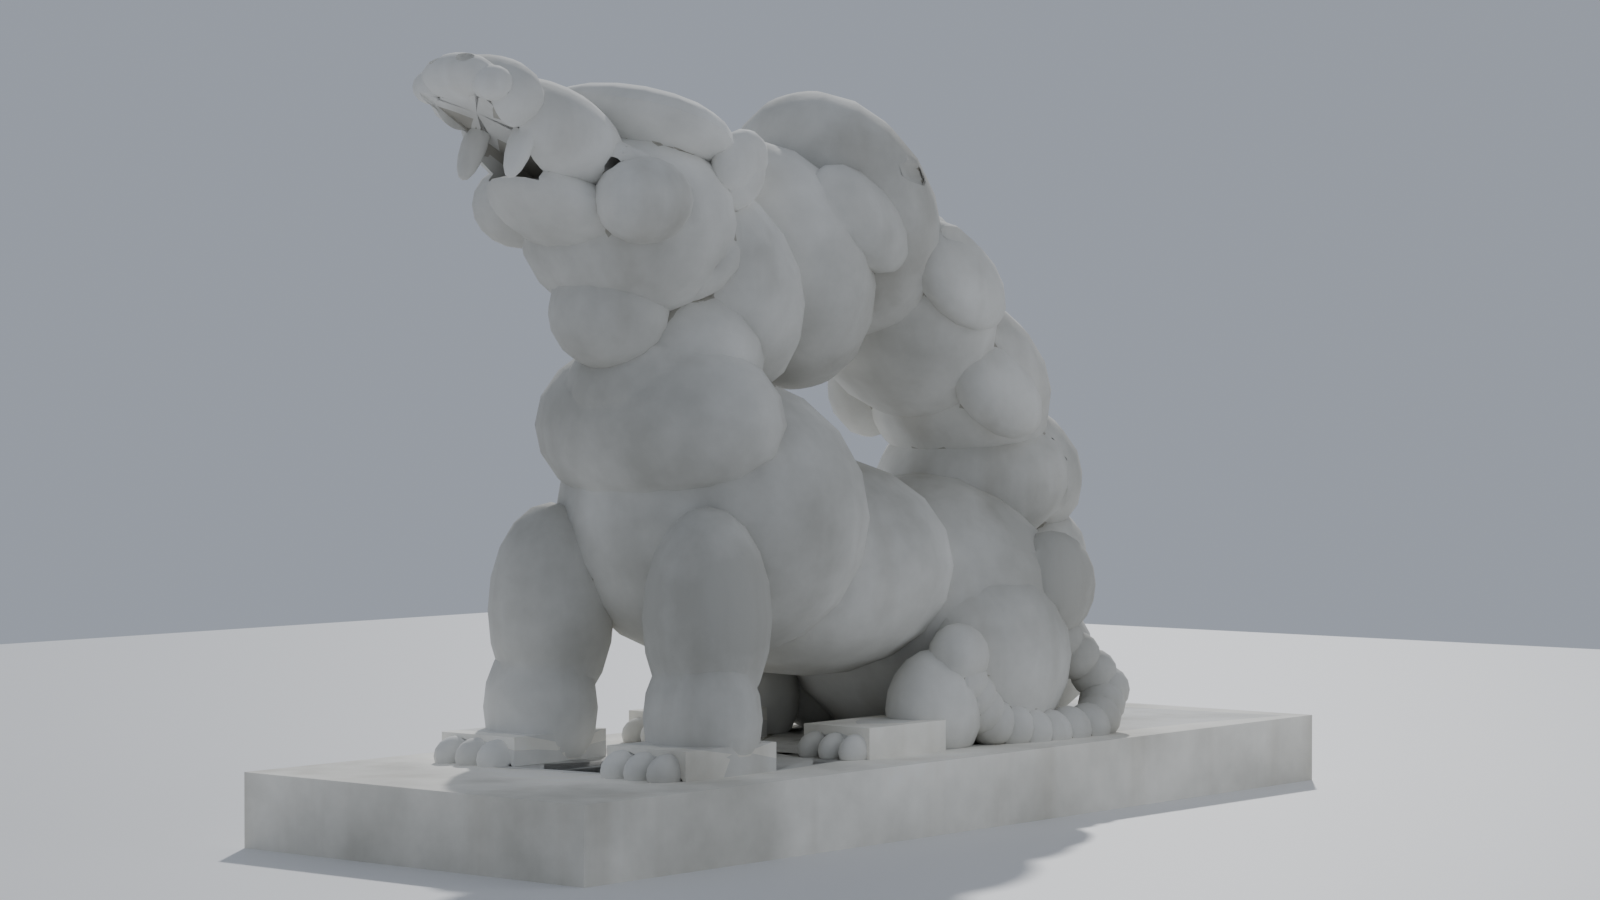
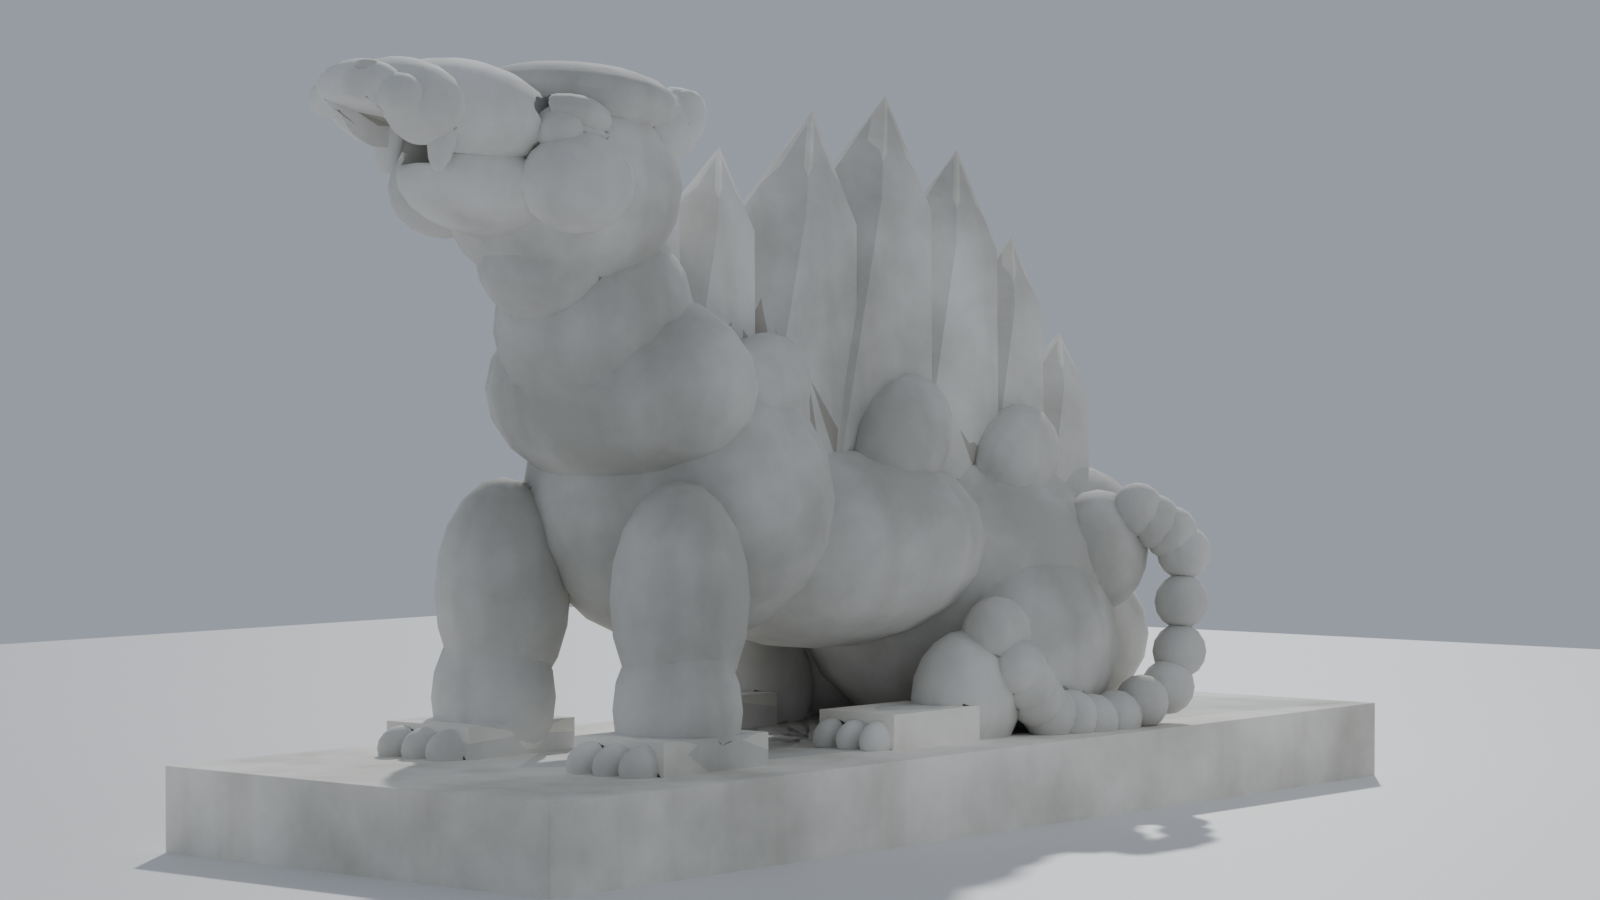
feat(e30): M14刀4 靠山兽第五刀——圆泡脊换7片火焰瓣(内收腰+后掠尖锋+瓦叠凹口, 六特征全中), 身姿前探(头前送+吻轴近水平+胯肩跨距+16%+降冠10%, 长高比1.56->1.81); 回归修复: 口裂楔刀切穿瘦吻/眼珠悬空孤岛; 两variant水密comps=1, 签名不变

diff --git a/e30_shikongqiao_video/3d/beasts2.py b/e30_shikongqiao_video/3d/beasts2.py
@@ -1,11 +1,12 @@
 # -*- coding: utf-8 -*-
-"""桥头靠山兽 v6(beasts2): 蹲坐昂首式镇桥兽, 真拍重雕批(2026-10-05)。
+"""桥头靠山兽 v7(beasts2): 前探蹲坐+火焰瓣脊镇桥兽, 真拍重雕批(2026-10-05)。
 
-历史依据(实拍 17_Arch_Bridge_Statue_over_Kunming_Lake_(3627588283) 剪影实证):
-臀落座/胸挺起/前腿直撑(犬坐式); 昂首吻轴 +25° 目视前方湖面; 背脊多层火焰云
-6 主叶沿脊互叠成连续扇贝波带, 背中部最高≈头顶齐平(≤1.2×, 废 v5 单片过顶
-巨卷); 云缘两侧披鬃顺披垂挂; 尾卷贴体侧后腿旁; 长方石座保留。
-废 v4 高颈直立坐犬态 / v5 伏卧前探+单片巨卷(与真拍剪影不符)。
+历史依据(实拍 17_Arch_Bridge_Statue_over_Kunming_Lake_(3627588283) 剪影实证,
+六审第五刀): 头前伸/吻近水平(额-鼻-嘴水平轮廓强), 颈斜向后上, 胸削瘦,
+前腿直撑, 躯干向后拉长(前探动势); 背脊=7 片火焰瓣——有尖/每层向后倒伏/
+前后层叠/瓣间凹口/大小递变/棱面硬轮廓(废 v6 圆椭球泡"葡萄脊");
+云缘两侧披鬃顺披; 尾卷贴体侧后腿旁; 长方石座保留。
+废 v4 高颈直立坐犬态 / v5 伏卧前探+单片巨卷 / v6 蹲坐昂首+圆泡云脊。
 
 交付形态: beast_bm(size, variant, seed) -> 单只水密 bmesh; place_beasts(spots) ->
 4 个 linked duplicate 共享 NVARIANTS 套 mesh。variant 0 张口 / 1 含珠微合。
@@ -106,20 +107,53 @@ def _frustum(c, s, tx=1.0, tz=1.0, rot_y=0.0, rot_x=0.0):
     return bm
 
 
-def _sculpt_parts(variant):
-    """蹲坐昂首式靠山兽部件(单位高 1.0, 朝 +X)。返回 (P, N, F)。
+def _blade(c, h, w, t, rot_y=-0.10):
+    """火焰瓣(独立 bmesh): 底环 + 内收腰环 + 后掠尖锋 + 前埋钝底。
 
-    真拍重雕(2026-10-05, 实拍 17_Arch_Bridge_Statue_over_Kunming_Lake_
-    (3627588283) 剪影实证, 替 v5 伏卧前探+单片巨卷): 臀落座/胸挺起/前腿直撑
-    (犬坐式, 前腿柱近竖直 ~6° 前倾); 昂首吻轴 +25° 目视前方湖面; 背脊多层
-    火焰云 6 主叶沿脊互叠(间距≈0.13/半长≈0.10 深搭接成连续扇贝波带), 背中部
-    最高≈头顶齐平(云顶/冠顶≈1.02, 绝不超 1.2, 废 v5 单片过顶巨卷 1.23);
-    云缘两侧披鬃三对顺披垂挂; 尾卷贴体侧后腿旁(尾根瓦锚接壳与臀球);
-    长方石座保留。
-    体块=椭球/盒(rot_y 定向: 正角 +X 端下俯/云叶后仰, 负角 +X 端上仰/昂首轴);
-    鬃/云/尾=半嵌瓦壳(C 先并成壳再总并, 与体块首(颈/项)尾(臀/落地云)两处锚接
-    保连通); 五官=负刀 crease+后并凸件。剪影验收: 坐角(前腿近竖/臀座接触)/
-    昂首角(吻轴 +25°)/云顶≤1.2×头高且呈 5-8 片扇贝叠/尾贴腿侧。
+    腰环(0.70h)收至 0.55w → 瓣宽厚保持到中上段、末 30% 收尖(宽瓣尖锋,
+    前后棱斜率递增=内凹火焰卷曲); 尖锋后掠 0.16h(合成顶点 ≈ 环心 +
+    (-0.259h, +0.979h)); 钝底下沉 0.18h 前埋 0.06h, 令环刃整条埋入
+    背脊体块(防切线退化/防瓣底悬丝)。
+    """
+    cx, cy, cz = c
+    R = Matrix.Rotation(rot_y, 3, 'Y')
+    bm = bmesh.new()
+    ring, waist = [], []
+    for j in range(6):
+        a = math.pi * j / 3.0
+        ca, sa = math.cos(a), math.sin(a)
+        p = R @ Vector((w * ca, t * sa, 0.0))
+        ring.append(bm.verts.new((p.x + cx, p.y + cy, p.z + cz)))
+        q = R @ Vector((0.55 * w * ca - 0.112 * h, 0.62 * t * sa, 0.70 * h))
+        waist.append(bm.verts.new((q.x + cx, q.y + cy, q.z + cz)))
+    tp = R @ Vector((-0.16 * h, 0.0, h))
+    bt = R @ Vector((0.06 * h, 0.0, -0.18 * h))
+    va = bm.verts.new((tp.x + cx, tp.y + cy, tp.z + cz))
+    vb = bm.verts.new((bt.x + cx, bt.y + cy, bt.z + cz))
+    for j in range(6):
+        k = (j + 1) % 6
+        bm.faces.new((vb, ring[k], ring[j]))
+        bm.faces.new((ring[j], ring[k], waist[k], waist[j]))
+        bm.faces.new((waist[j], waist[k], va))
+    return bm
+
+
+def _sculpt_parts(variant):
+    """前探蹲坐式靠山兽部件(单位高 1.0, 朝 +X)。返回 (P, N, F)。
+
+    六审第五刀(2026-10-05, GPT 六审: 背脊整条重画+身体前探动势, 实拍
+    17_Arch_Bridge_Statue_over_Kunming_Lake_(3627588283) 剪影实证):
+    1. 背脊=7 片火焰瓣 _blade(六棱环+后掠尖锋+钝底埋背): 有尖/每层向后
+       倒伏/前后层叠/瓣间深凹口/大小递变(中背最高≈头顶)/棱面硬轮廓;
+       尖序 x 0.235→-0.58, 尖高 0.79→0.82(峰)→0.56。废 v6 圆椭球泡脊。
+    2. 身体前探: 头前送+0.065(吻端至 0.70), 吻轴近水平(rot_y -0.21≈+12°,
+       额-鼻-嘴水平轮廓强), 颈斜向后上(rot_y -0.35), 胸削瘦(rx 0.19→0.16)
+       且前移, 躯干后拉(臀球 -0.30→-0.335, 胯-肩跨距 +16%), 前腿更直立
+       (~4°), 整体降低(冠顶 0.953→0.857)。
+    体块=椭球/盒(rot_y 定向: 负角 +X 端上仰/顶部向后倒伏, 正角相反);
+    火焰瓣/披鬃/云/尾=C 壳先并再总并(瓣环刃/鬃锚/尾根均深埋体块保连通);
+    五官=负刀 crease+后并凸件。剪影验收: 背脊锯齿锐形(尖+凹口, 无球轮廓)/
+    头前伸吻水平/胸瘦腿直/瓣尖≤头顶 1.2×/尾贴腿侧。
     """
     P, N, F = [], [], []
     C = []
@@ -134,6 +168,9 @@ def _sculpt_parts(variant):
         add(_ell(c, r, seg, ring, rot_x=rot_x, rot_y=rot_y, rot_z=rot_z),
             C if carve else None)
 
+    def blade(c, h, w, t, rot_y=-0.10, carve=True):
+        add(_blade(c, h, w, t, rot_y=rot_y), C if carve else None)
+
     def box(c, s, rot_y=0.0, rot_x=0.0, rot_z=0.0):
         add(_box(c, s, rot_y, rot_x, rot_z))
 
@@ -147,85 +184,87 @@ def _sculpt_parts(variant):
     tsy = 1.0 if variant == 0 else -1.0
 
     # 1. 长方石座(保留 v5)
-    box((-0.085, 0, 0.042), (1.55, 0.58, 0.095))
+    box((-0.09, 0, 0.042), (1.55, 0.58, 0.095))
 
-    # 2. 蹲坐躯干: 臀球落座 + 腰腹斜升 + 挺胸 + 肩丘(前高后低坐姿体线)
-    ell((-0.30, 0, 0.26), (0.20, 0.205, 0.19))      # 臀球(沉入座面, 顶 0.45)
-    ell((-0.05, 0, 0.33), (0.21, 0.20, 0.15))       # 腰腹(腹线 0.18 斜升)
-    ell((0.14, 0, 0.40), (0.19, 0.22, 0.19))        # 挺胸(底 0.21 顶 0.59)
-    ell((0.24, 0, 0.52), (0.12, 0.19, 0.12))        # 肩丘(颈基)
-    ell((0.26, 0, 0.56), (0.10, 0.115, 0.10))       # 咽喉填充(颏须-胸桥)
-    # 2b. 后肢折叠: 大腿 + 飞节 + 前伸后爪 + 三趾(贴体侧)
+    # 2. 前探躯干: 臀球后拉落座 + 腰腹拉长 + 胸削瘦前移 + 肩丘(头前伸支点)
+    ell((-0.335, 0, 0.255), (0.20, 0.205, 0.185))   # 臀球(沉入座面, 顶 0.44)
+    ell((-0.07, 0, 0.32), (0.22, 0.20, 0.13))       # 腰腹(腹线 0.19 上收)
+    ell((0.175, 0, 0.375), (0.16, 0.195, 0.17))     # 挺胸(削瘦: 底0.205顶0.545)
+    ell((0.27, 0, 0.50), (0.115, 0.18, 0.115))      # 肩丘(颈基)
+    ell((0.30, 0, 0.55), (0.10, 0.115, 0.10), rot_y=-0.35)  # 咽喉填充(颏-胸桥)
+    # 2b. 后肢折叠: 大腿 + 飞节 + 前伸后爪 + 三趾(贴体侧, 随臀后拉 -0.03)
     for sy in (1, -1):
-        ell((-0.28, sy * 0.15, 0.20), (0.13, 0.085, 0.12))
-        ell((-0.13, sy * 0.16, 0.14), (0.075, 0.06, 0.08))
-        box((-0.01, sy * 0.155, 0.105), (0.16, 0.11, 0.05))
+        ell((-0.31, sy * 0.15, 0.19), (0.13, 0.085, 0.115))
+        ell((-0.16, sy * 0.16, 0.135), (0.075, 0.06, 0.08))
+        box((-0.04, sy * 0.155, 0.105), (0.16, 0.11, 0.05))
         for ty in (-0.032, 0.002, 0.036):
-            ell((0.075, sy * 0.155 + ty, 0.10), (0.03, 0.016, 0.022),
+            ell((0.045, sy * 0.155 + ty, 0.10), (0.03, 0.016, 0.022),
                 _SEG_S, _RING_S)
 
-    # 3. 前肢直撑(近竖直立柱, 上端斜入胸底) + 宽爪 + 三趾
+    # 3. 前肢直撑(更直立 ~4°, 上端斜入削瘦胸底) + 宽爪 + 三趾
     for sy in (1, -1):
-        ell((0.30, sy * 0.135, 0.28), (0.085, 0.08, 0.14))
-        ell((0.315, sy * 0.14, 0.155), (0.07, 0.08, 0.10))
-        box((0.34, sy * 0.145, 0.10), (0.17, 0.13, 0.052))
+        ell((0.32, sy * 0.135, 0.27), (0.08, 0.075, 0.13))
+        ell((0.33, sy * 0.14, 0.15), (0.068, 0.075, 0.095))
+        box((0.345, sy * 0.145, 0.10), (0.17, 0.13, 0.052))
         for ty in (-0.036, 0.002, 0.040):
-            ell((0.43, sy * 0.145 + ty, 0.098), (0.034, 0.018, 0.025),
+            ell((0.435, sy * 0.145 + ty, 0.098), (0.034, 0.018, 0.025),
                 _SEG_S, _RING_S)
 
-    # 4. 昂首: 颈轴/吻轴 +25°(rot_y 负角上仰), 吻指斜上; 颏须垂桥接胸
-    ell((0.22, 0, 0.60), (0.11, 0.13, 0.13), rot_y=-0.45)          # 颈
-    ell((0.30, hy, 0.775), (0.135, 0.145, 0.125))                  # 颅
-    ell((0.29, hy, 0.895), (0.115, 0.145, 0.045), rot_y=-0.35,
+    # 4. 头前伸: 颈斜向后上(-0.35), 吻轴近水平(-0.21≈+12°), 吻加长前送;
+    #    额-鼻-嘴一线 z 0.775→0.815 水平轮廓强; 颏须垂桥接胸
+    ell((0.315, 0, 0.58), (0.10, 0.12, 0.115), rot_y=-0.35)        # 颈
+    ell((0.365, hy, 0.72), (0.13, 0.14, 0.12))                     # 颅
+    ell((0.352, hy, 0.812), (0.108, 0.14, 0.045), rot_y=-0.15,
         carve=True)                                                # 冠盖
-    ell((0.375, hy, 0.835), (0.10, 0.12, 0.038), rot_y=-0.44)      # 额檐(眉上收)
-    ell((0.455, hy, 0.875), (0.115, 0.10, 0.065), rot_y=-0.44)     # 鼻梁
-    ell((0.555, hy, 0.925), (0.055, 0.085, 0.048), rot_y=-0.44)    # 吻端
-    ell((0.60, hy, 0.945), (0.032, 0.058, 0.028), rot_y=-0.44)     # 鼻镜
+    ell((0.44, hy, 0.775), (0.095, 0.12, 0.038), rot_y=-0.19)      # 额檐(眉上收)
+    ell((0.52, hy, 0.79), (0.105, 0.10, 0.06), rot_y=-0.21)        # 鼻梁
+    ell((0.615, hy, 0.80), (0.06, 0.085, 0.048), rot_y=-0.21)      # 吻端
+    ell((0.668, hy, 0.815), (0.032, 0.058, 0.028), rot_y=-0.21)    # 鼻镜
     for sy in (1, -1):
-        ell((0.595, hy + sy * 0.05, 0.935), (0.026, 0.026, 0.022),
+        ell((0.66, hy + sy * 0.05, 0.805), (0.026, 0.026, 0.022),
             _SEG_S, _RING_S)                                       # 鼻翼
-        ell((0.385, hy + sy * 0.105, 0.80), (0.07, 0.055, 0.055))  # 颊垫
-    ell((0.43, hy, 0.79), (0.10, 0.085, 0.042), rot_y=-0.44)       # 下颌
-    ell((0.335, hy, 0.665), (0.075, 0.08, 0.075), rot_y=-0.5,
+        ell((0.445, hy + sy * 0.10, 0.72), (0.07, 0.055, 0.055))   # 颊垫
+    ell((0.49, hy, 0.715), (0.10, 0.085, 0.05), rot_y=-0.21)       # 下颌(加深, 存活于口裂下缘)
+    ell((0.39, hy, 0.645), (0.075, 0.08, 0.075), rot_y=-0.45,
         carve=True)                                                # 颏须
     for sy in (1, -1):
-        ell((0.21, hy + sy * 0.11, 0.83), (0.035, 0.026, 0.042),
-            _SEG_S, _RING_S, rot_x=sy * -0.4, rot_y=-0.5)          # 贴颅伏耳
-        ell((0.385, hy + sy * 0.082, 0.838), (0.05, 0.04, 0.022),
-            _SEG_S, _RING_S, rot_x=sy * 0.2, rot_y=-0.44)          # 眉脊
+        ell((0.285, hy + sy * 0.10, 0.79), (0.035, 0.026, 0.042),
+            _SEG_S, _RING_S, rot_x=sy * -0.4, rot_y=-0.35)         # 贴颅伏耳
+        ell((0.445, hy + sy * 0.09, 0.79), (0.05, 0.04, 0.022),
+            _SEG_S, _RING_S, rot_x=sy * 0.2, rot_y=-0.21)          # 眉脊
 
-    # 5. 背脊火焰云: 项后过渡瓦 + 6 主叶沿脊互叠(背中部最高≈头顶) +
-    #    臀上云桥(体块锚) + 臀后垂云落地
-    ell((0.245, 0, 0.73), (0.09, 0.13, 0.06), rot_y=0.5, carve=True)
-    for (lx, lz, lrx, lry, lrz, la) in (
-            (0.16, 0.70, 0.10, 0.15, 0.16, 0.45),
-            (0.02, 0.73, 0.11, 0.15, 0.175, 0.45),
-            (-0.11, 0.80, 0.11, 0.16, 0.18, 0.50),
-            (-0.245, 0.68, 0.11, 0.15, 0.17, 0.55),
-            (-0.375, 0.575, 0.105, 0.15, 0.15, 0.60),
-            (-0.47, 0.45, 0.095, 0.14, 0.12, 0.65)):
-        ell((lx, 0, lz), (lrx, lry, lrz), rot_y=la, carve=True)
-    ell((-0.42, 0, 0.44), (0.13, 0.15, 0.10), rot_y=0.45)           # 臀上云桥(锚)
-    ell((-0.50, 0, 0.33), (0.09, 0.13, 0.085), rot_y=0.8, carve=True)  # 臀后垂云
-    ell((-0.53, 0, 0.185), (0.085, 0.12, 0.10))                     # 垂云落地
-    # 5b. 云缘两侧披鬃三对(顺披垂挂, 锚端真实体积嵌入云叶防擦碰孤岛) + 云前缘卷勾
+    # 5. 背脊火焰瓣 x7(六审第五刀: 有尖/向后倒伏/前后层叠/瓣间凹口/大小
+    #    递变/棱面硬轮廓; rot_y -0.30+尖锋后掠 0.22h → 尖=环心+(-0.506h,
+    #    +0.890h), 环刃深埋背线 0.03-0.09, 相邻瓣下半大重叠成瓦叠实心脊,
+    #    凹口只落瓣高中部不落底)。废 v6 圆椭球泡脊。
+    for (bx, bz, bh, bw, bt) in (
+            (0.27, 0.60, 0.20, 0.060, 0.075),    # 项后鬃锋(从头颈后穿出, 尖0.80)
+            (0.185, 0.46, 0.326, 0.115, 0.09),   # 尖0.78
+            (0.05, 0.39, 0.449, 0.17, 0.11),     # 尖0.83
+            (-0.085, 0.40, 0.466, 0.175, 0.115), # 中背峰 尖0.856≈头顶
+            (-0.24, 0.39, 0.416, 0.15, 0.105),   # 尖0.80
+            (-0.38, 0.385, 0.314, 0.105, 0.085), # 尖0.69(下沉保环刃埋臀)
+            (-0.50, 0.33, 0.247, 0.09, 0.075)):  # 尖0.57(臀上收)
+        blade((bx, 0, bz), bh, bw, bt)
+    ell((-0.545, 0, 0.32), (0.09, 0.13, 0.085), rot_y=0.8, carve=True)  # 臀后垂云
+    ell((-0.575, 0, 0.185), (0.085, 0.12, 0.10))                    # 垂云落地
+    # 5b. 瓣缘两侧披鬃三对(向后顺披, 锚端嵌入瓣体+体侧双锚) + 头后卷勾
     for sy in (1, -1):
-        ell((-0.02, sy * 0.12, 0.79), (0.06, 0.04, 0.09),
-            _SEG_S, _RING_S, rot_x=sy * 0.3, rot_y=0.85, carve=True)
-        ell((-0.21, sy * 0.135, 0.72), (0.065, 0.04, 0.095),
-            _SEG_S, _RING_S, rot_x=sy * 0.3, rot_y=0.9, carve=True)
-        ell((-0.325, sy * 0.115, 0.565), (0.06, 0.045, 0.085),
-            _SEG_S, _RING_S, rot_x=sy * 0.35, rot_y=0.9, carve=True)
-        ell((0.215, hy + sy * 0.115, 0.855), (0.04, 0.026, 0.05),
-            _SEG_S, _RING_S, rot_y=-1.1, carve=True)               # 云前缘卷勾
+        ell((0.15, sy * 0.10, 0.49), (0.062, 0.05, 0.095),
+            _SEG_S, _RING_S, rot_x=sy * 0.3, rot_y=-0.9, carve=True)
+        ell((-0.11, sy * 0.10, 0.44), (0.065, 0.05, 0.10),
+            _SEG_S, _RING_S, rot_x=sy * 0.3, rot_y=-0.9, carve=True)
+        ell((-0.34, sy * 0.095, 0.41), (0.06, 0.048, 0.09),
+            _SEG_S, _RING_S, rot_x=sy * 0.3, rot_y=-0.9, carve=True)
+        ell((0.297, hy + sy * 0.10, 0.79), (0.04, 0.026, 0.05),
+            _SEG_S, _RING_S, rot_y=-1.1, carve=True)               # 头后云卷勾
 
     # 6. 尾: 贴体侧后腿旁 S 卷, 梢上勾(variant 换侧); 首节锚入臀球,
     #    尾根瓦并壳(保雕饰簇单连通)
-    ell((-0.385, tsy * 0.165, 0.295), (0.075, 0.055, 0.075), carve=True)
-    tail_anchors = ((-0.40, 0.17, 0.22), (-0.47, 0.20, 0.15),
-                    (-0.42, 0.215, 0.10), (-0.30, 0.21, 0.095),
-                    (-0.20, 0.195, 0.12), (-0.155, 0.19, 0.175))
+    ell((-0.42, tsy * 0.165, 0.30), (0.075, 0.055, 0.075), carve=True)
+    tail_anchors = ((-0.44, 0.21, 0.35), (-0.49, 0.245, 0.31),
+                    (-0.47, 0.25, 0.14), (-0.335, 0.235, 0.095),
+                    (-0.235, 0.22, 0.115), (-0.19, 0.215, 0.17))
     for k in range(15):
         t = k / 14.0 * (len(tail_anchors) - 1)
         i = min(int(t), len(tail_anchors) - 2)
@@ -234,41 +273,38 @@ def _sculpt_parts(variant):
         cp = tuple(a[d] + (b[d] - a[d]) * f for d in range(3))
         ell((cp[0], tsy * cp[1], cp[2]), (0.034, 0.033, 0.034),
             _SEG_S, _RING_S, carve=True)
-    ell((-0.15, tsy * 0.185, 0.21), (0.044, 0.040, 0.044), _SEG_S, _RING_S,
+    ell((-0.185, tsy * 0.185, 0.21), (0.044, 0.040, 0.044), _SEG_S, _RING_S,
         carve=True)
 
-    # 7. 云面波纹刻槽(负刀浅槽, 每侧两道)
-    for sy in (1, -1):
-        neg(_ell((-0.15, sy * 0.155, 0.86), (0.095, 0.018, 0.026),
-                 _SEG_S, _RING_S))
-        neg(_ell((-0.245, sy * 0.15, 0.78), (0.09, 0.018, 0.026),
-                 _SEG_S, _RING_S))
+    # 7. (旧云面波纹刻槽随 v6 圆泡云删除; 火焰瓣以六棱面与凹口承担雕刻语汇)
 
-    # 8. 减法(负刀半凸穿出表面): 口裂楔刀(沿吻轴) / 眼窝上割 / 鼻孔
+    # 8. 减法(负刀半凸穿出表面): 口裂楔刀(沿吻轴 -0.21) / 眼窝上割 / 鼻孔
     if variant == 0:
-        neg(_frustum((0.52, hy, 0.852), (0.26, 0.075, 0.038),
-                     tx=1.35, rot_y=-0.44))
+        neg(_frustum((0.585, hy, 0.758), (0.24, 0.052, 0.034),
+                     tx=1.25, rot_y=-0.21))
     else:
-        neg(_frustum((0.52, hy, 0.854), (0.26, 0.075, 0.028),
-                     tx=1.35, rot_y=-0.44))
+        neg(_frustum((0.585, hy, 0.760), (0.24, 0.052, 0.024),
+                     tx=1.25, rot_y=-0.21))
     for sy in (1, -1):
-        neg(_ell((0.40, hy + sy * 0.088, 0.843), (0.038, 0.016, 0.018),
+        neg(_ell((0.475, hy + sy * 0.088, 0.795), (0.038, 0.016, 0.018),
                  _SEG_S, _RING_S))
-        neg(_ell((0.614, hy + sy * 0.024, 0.966), (0.012, 0.012, 0.010),
+        neg(_ell((0.682, hy + sy * 0.024, 0.836), (0.012, 0.012, 0.010),
                  _SEG_S, _RING_S))
 
     # 8b. 后置凸件(负刀后并回): 凸眼珠 / 上唇獠牙(张口) 或 含珠(微合)
     for sy in (1, -1):
-        fin(_ell((0.395, hy + sy * 0.092, 0.822), (0.026, 0.028, 0.026),
+        # 眼珠中心须在眼窝负刀(0.475,±0.088,0.795)下外方, 埋入额檐实体,
+        # 仅顶面探入窝内(否则整体悬在窝腔中成孤岛, 六审布尔诊断)
+        fin(_ell((0.47, hy + sy * 0.096, 0.776), (0.026, 0.028, 0.026),
                  _SEG_S, _RING_S))
     if variant == 0:
         for sy in (1, -1):
-            # 獠牙顶端须越过口裂楔刀上缘(x=0.535 处≈0.882)嵌入上颌实体
-            fin(_ell((0.535, hy + sy * 0.040, 0.866), (0.015, 0.018, 0.048),
-                     _SEG_S, _RING_S, rot_y=-0.44))
+            # 獠牙顶端须越过口裂楔刀上缘(x=0.585 处≈0.801)嵌入上颌实体
+            fin(_ell((0.585, hy + sy * 0.040, 0.774), (0.015, 0.018, 0.048),
+                     _SEG_S, _RING_S, rot_y=-0.21))
     else:
         # 含珠顶端同样越过楔刀上缘嵌入上颌(否则负刀后悬空断连)
-        fin(_ell((0.545, hy, 0.868), (0.036, 0.036, 0.036), _SEG_S, _RING_S))
+        fin(_ell((0.59, hy, 0.776), (0.036, 0.036, 0.036), _SEG_S, _RING_S))
 
     # 9. 雕饰簇(鬃/云/尾)先并成单一壳, 再与体块一次并(避免切线布尔退化壳)
     if C:

diff --git a/e30_shikongqiao_video/3d/beast_pose_report.md b/e30_shikongqiao_video/3d/beast_pose_report.md
@@ -107,3 +107,66 @@ y 0.025-0.125)不互穿; 尾部与母前爪趾区实体相交=与主体相连。
 lion_closeup_threeq.png 重渲 + _lion_chest_zoom.png 放大目视: 无浮件、
 幼狮圆腿圆爪扒伏母胸爪球与腿柱相连、母狮圆腿球趾正常。
 水密断言与签名未动; Python 3.9.6 编译过。
+
+## 六、六审第五刀（2026-10-05 主控派单: 背脊整条重画为锐利火焰瓣 + 身体前探动势）
+
+依据: refs/gpt_round6.txt 四-4（"真物=有尖/向后倒伏/前后层叠/中间凹口/大小递变/
+轮廓非常硬(火焰瓣/鬃片), 现=圆泡/葡萄状; 这刀改对图5从7.4跳8.5"）+ 实拍剪影。
+工作区: /tmp/e30_fix_beastflamespine（主控隔离协议, 并发期全部验证在副本完成,
+最终写回互斥文件集 beasts2.py + 本报告 + _beast_preview_*.png; 未 commit）。
+
+### 结构改动（_sculpt_parts 与新基元 _blade, 管线/断言/接口不动）
+1. **背脊 v6 圆椭球泡(6叶 rot_y0.45-0.65) → 7 片火焰瓣 _blade**: 新基元=
+   六棱底环 + 内收腰环(0.70h 处收至 0.55w, 前后棱斜率递增=内凹火焰卷曲) +
+   后掠尖锋(合成顶点=环心+(-0.259h,+0.979h), rot_y -0.10+锋偏 0.16h) +
+   前埋钝底(下沉 0.18h 前埋 0.06h, 环刃整条埋背防悬丝)。facet 面不平滑,
+   配 _mark_smooth(45°) 保硬棱轮廓。
+   - 布片(x,z,h,w,t): (0.27,0.60,0.20,0.06,0.075)项后鬃锋 / (0.185,0.46,
+     0.326,0.115,0.09) / (0.05,0.39,0.449,0.17,0.11) / (-0.085,0.40,0.466,
+     0.175,0.115)中背峰 / (-0.24,0.39,0.416,0.15,0.105) / (-0.38,0.385,
+     0.314,0.105,0.085) / (-0.50,0.33,0.247,0.09,0.075)。
+   - 尖序 x 0.218→-0.564, 尖高 0.796→0.856(中背峰≈头顶1.00, ≤1.2 ✓)→0.572
+     (大小递变); 环刃埋背线 0.03-0.13, 相邻瓣下半 x 向重叠 0.03-0.08 成瓦叠
+     实心脊, 瓣间凹口落瓣高中上部不落底。
+   - **臀上云桥删除**(v6 臀部圆球来源之一; 其锚接职责由臀球+垂云承担,
+     逐锚点椭球嵌入复检全过)。
+2. **身体前探**: 头组前送+0.065(吻端至 x0.70), 吻轴 rot_y -0.44→-0.21
+   (+25°→+12° 近水平, 额-鼻-嘴一线 z0.775→0.815 水平轮廓), 颈斜向后上
+   (-0.35), 胸削瘦 rx0.19→0.16 且前移 0.14→0.175, 臀球 -0.30→-0.335(胯-肩
+   跨距+16%), 前腿 ~7.6°→~4° 更直立, 冠顶 0.953→0.857 整体降 10%; 后肢/尾
+   随臀后移; 腰腹上收(rz0.14→0.13, 腹线 0.17→0.19)。归一后长高比 1.56→1.81。
+3. **口裂回归修复**(第一版前探头型把 v6 楔刀原样平移导致切穿瘦吻+下颌,
+   3/4 渲染嘴部黑洞): 楔刀 (0.29,0.075)→(0.24,0.052) tx1.35→1.25 收窄缩短;
+   下颌加深下移 rz0.042→0.05 z0.735→0.715, 令其存活于切口下缘(唇线连续)。
+4. 披鬃三对锚端随新瓣重定位(y±0.10, rot_y -0.9 向后顺披), 双锚(瓣体+体侧);
+   尾根瓦上移(z0.285→0.30)+尾链外缠(y0.19-0.22→0.21-0.25, 出臀廓成贴臀卷);
+   旧云面波纹刻槽(§7 负刀)随圆泡云删除——火焰瓣以六棱面+凹口承担雕刻语汇。
+
+### 验证闭环（全部在副本工作区执行）
+- blender -b --python beasts2.py: 两 variant comps=1 水密断言过,
+  boundary edges 0→0; bbox 长/宽/高 = 2.03/0.75/1.12(v6: 1.74/0.75/1.12)。
+- 布尔分步诊断(临时脚本, 已删): 正向 48 件并集 comps=1 → 逐负刀 1 → FIN
+  眼珠+2, 定位新眼窝负刀挖空后眼珠悬在窝腔成孤岛 → 眼珠下移外移嵌额檐
+  (0.47,±0.096,0.776), 顶面探窝。修复后 FIN 全 1。
+- 渲染迭代 4 轮(侧剪影正交 + 3/4 汉白玉): ①针状(豪猪刺) ②加宽成锯刀
+  ③腰环内凹(火舌感成, 3/4 暴露口裂黑洞+瓣太薄如鲨鳍) ④楔刀/下颌修复+
+  瓣厚 t×1.8+腰环上抬(0.5h/0.35弦→0.70h/0.55w): 终版侧剪影=锯齿锐脊+
+  尖峰+谷口+递变, 3/4=宽瓣硬棱, 无球轮廓, 无黑洞。
+- build_scene2.py(副本): SAVED v2, place_beasts 原签名消费无异常;
+  variant 1(含珠)水密断言过(共享全部件仅口部差异, 未单独出图)。
+- Python 3.9.6 编译过; 真实树写回 MD5 与验证副本一致
+  (04028d662331cbe8c6b4d148fd62e53b)。
+
+### 剪影自评与真拍差距
+- 已对齐: 有尖/向后倒伏/前后层叠/瓣间凹口/大小递变/硬轮廓六特征全部成立;
+  头前伸+吻水平+胸瘦腿直+躯干后拉的前探动势成立; 臀部圆球簇消除(尾卷除外,
+  属真物语汇)。
+- 差距: ①真物瓣缘弧曲更卷(火舌), 现版本直棱为主、内凹为辅, 近距大特写偏
+  "晶体棱瓣"; ②真物脊最高段偏后(肩后至臀上), 现峰值在中背(受 v6 "背中部
+  最高≈头顶"验收线约束, 未后移); ③披鬃圆团在瓣基仍略读"泡泡", 特写可辨。
+
+### 遗留风险
+1. variant 1(含珠)口部楔刀同步收窄, 仅过水密断言+集成, 未单独渲染目检。
+2. 眼窝负刀+眼珠嵌入为新位, 特写机位(frontclose 2.6m)眼形待主控验收。
+3. 脊峰若需后移至真物位(肩后), 需主控解除 v6 "背中部最高"约束后再调。
+4. build_scene2 正式树 SAVED 由主控合并各副本后统一重建确认(本副本已过)。
